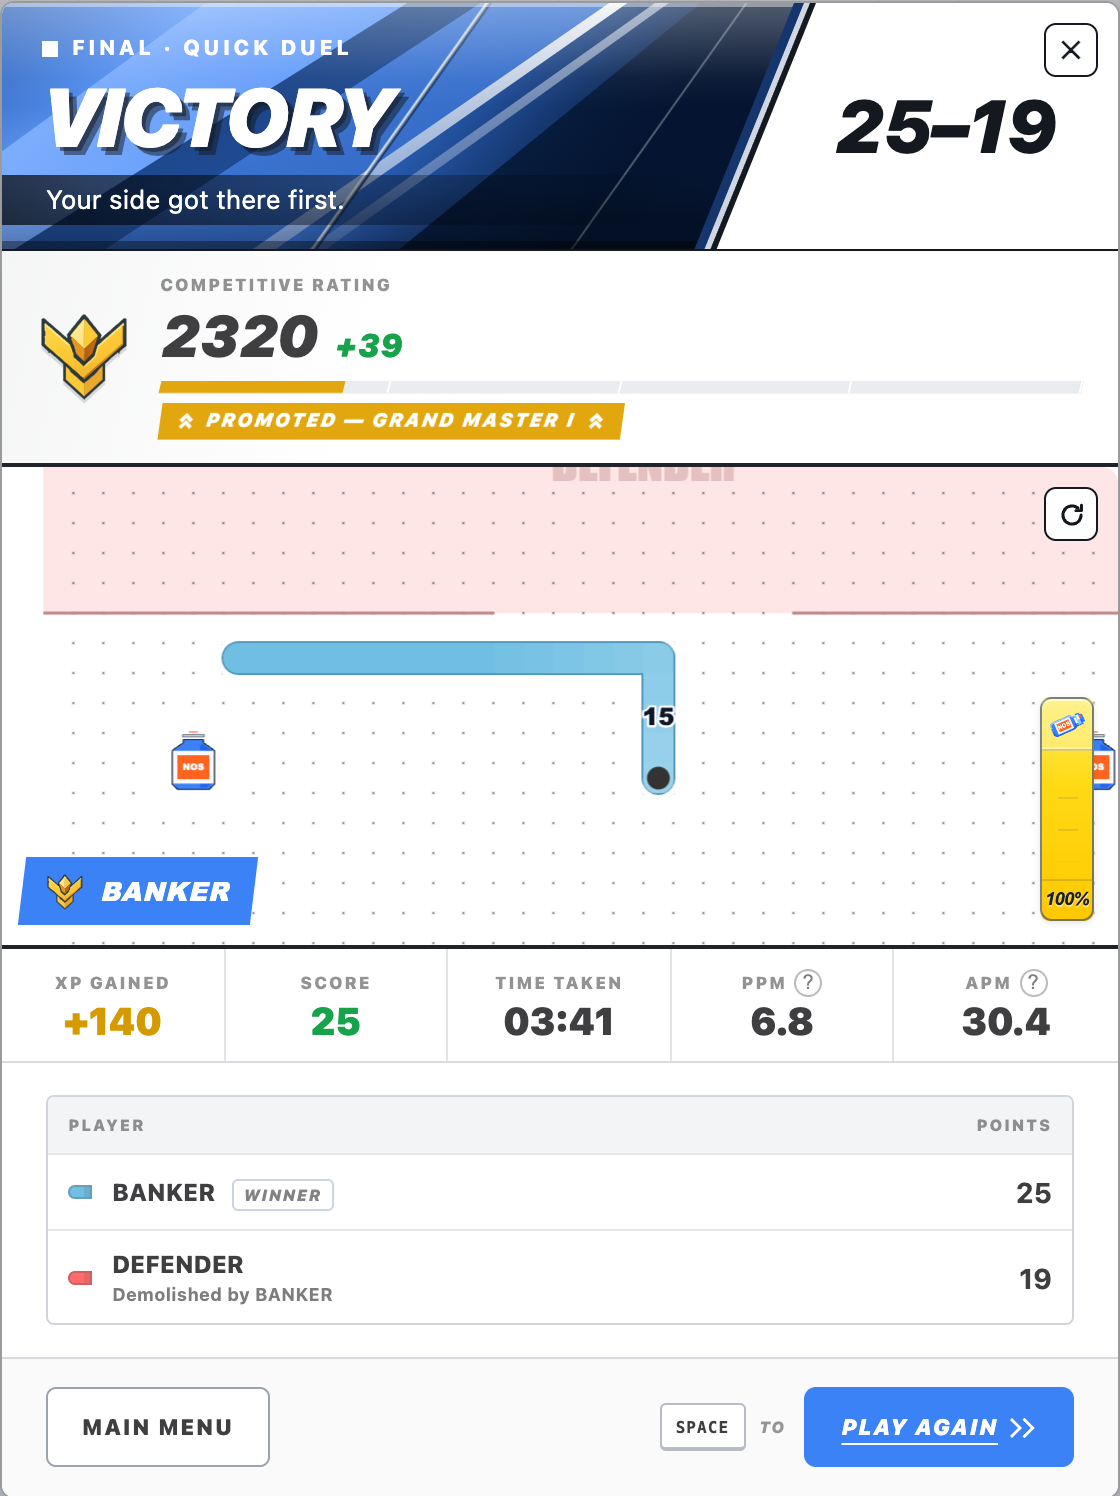
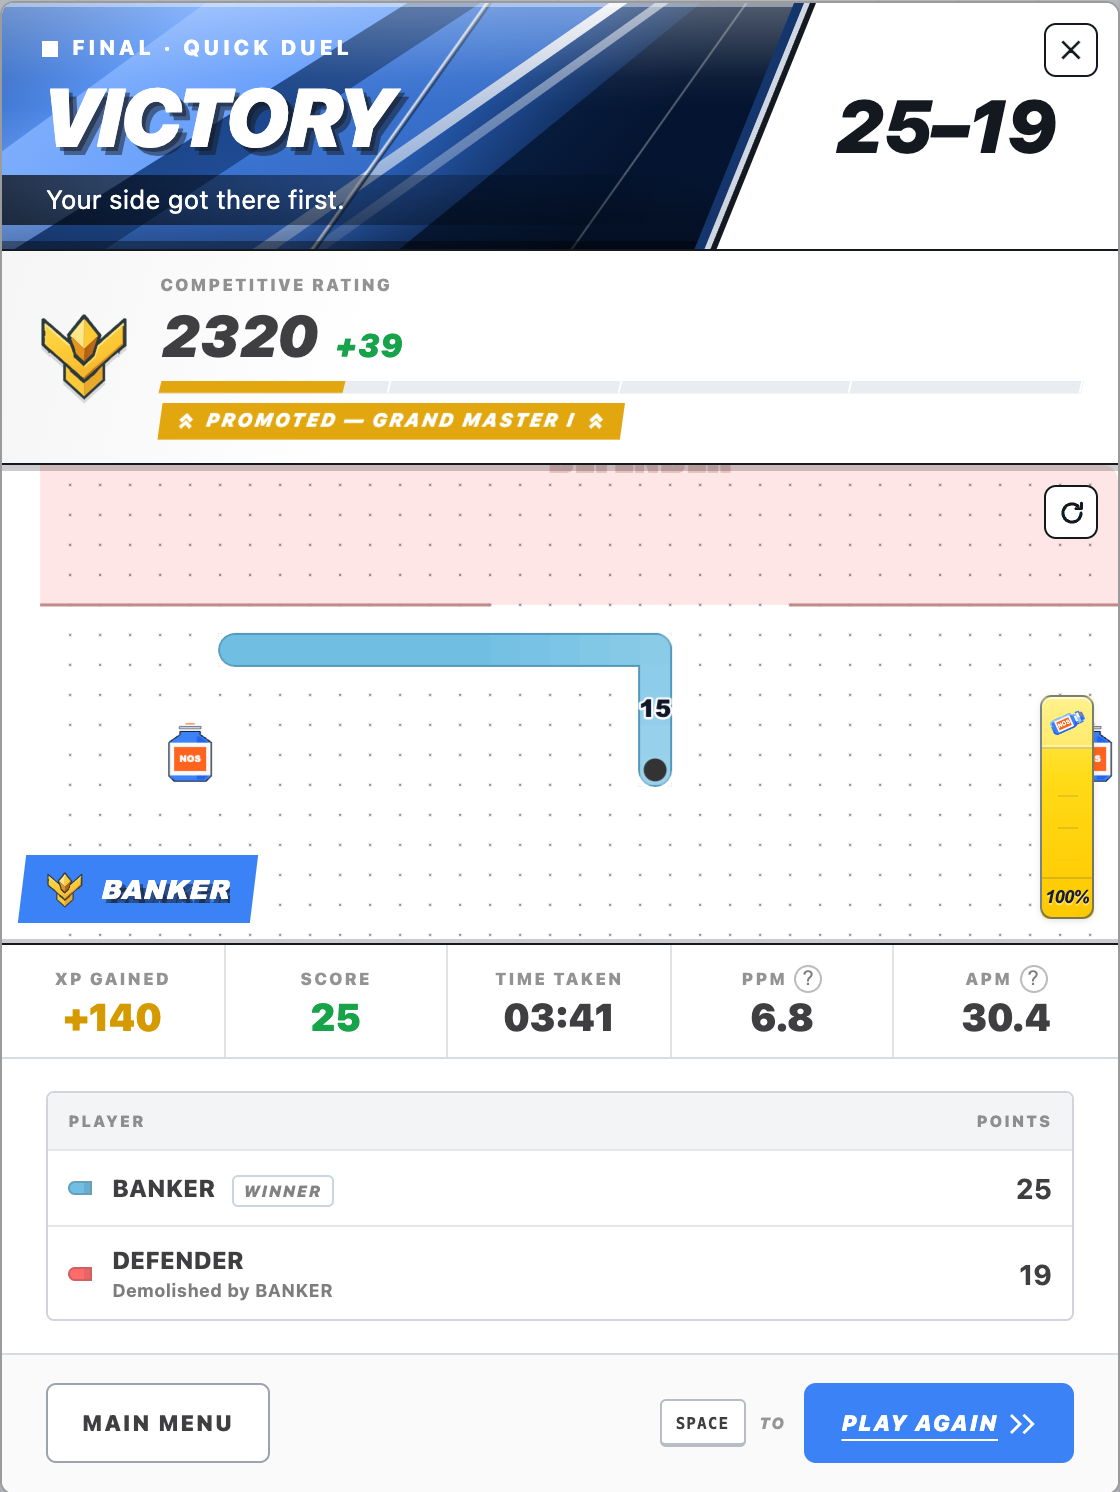
Settle the replay band's typography and framing
The band's edges were two 2px ink rules, which read as a slab bolted onto the
card. It is a recess now: a hairline on each edge in the same ink as the
divider above it, plus a short shadow falling inward from both — 3px from the
top, 2px from the bottom, no blur. The shadow rides in an overlay because an
inset shadow on the band would paint beneath its own arena canvas.

Typography. The title now speaks in the card's headline voice — the same
italic 950 uppercase as VICTORY and the star plate — dark, with VICTORY's
stepped shadow inverted to white so it separates from the pale arena behind
the veil. The star plate wears that same shadow in translucent black, which
is what makes the two plates read as one object at two sizes.

The achievement popover loses its rounded corners and its uppercasing: it is
prose, and the plate it hangs off is already shouting.

The panel's arrival is sharper off the mark and settles longer, so it reads
as a snap rather than a drawer being pulled.

Also: the replay waits on the rating sweep, and that sweep runs on rAF, which
a background tab throttles to a stop — a card opened out of view would come
back with no replay on it. A ceiling now treats the sweep as finished once it
has had far longer than it needs.

diff --git a/client/web/components/PlayOfTheGame.css b/client/web/components/PlayOfTheGame.css
@@ -8,16 +8,29 @@
   position: relative;
   width: 100%;
   overflow: hidden;
-  /* Rules on both edges, and the negative margin swallows the rating panel's
-     own hairline so the two do not stack into a double line. Without this the
-     replay's pale arena ran straight into the rating panel's pale background
-     and the two read as one tall block. */
+  /* The negative margin swallows the rating panel's own hairline so the two
+     rules do not stack into a double line. */
   margin-top: -1px;
-  border-top: 2px solid var(--potg-ink);
-  border-bottom: 2px solid var(--potg-ink);
+  border-top: 1px solid #14181f;
+  border-bottom: 1px solid #14181f;
   background: #eef2f7;
   color: #fff;
   isolation: isolate;
+}
+
+/* Reads as a recess in the card rather than a slab bolted onto it: a hairline
+   on each edge plus a short shadow falling inward from both. It has to ride
+   above the arena — an inset shadow on the band itself paints under its own
+   children, so the canvas would cover it. */
+.potg-band::after {
+  position: absolute;
+  inset: 0;
+  z-index: 7;
+  box-shadow:
+    inset 0 3px 0 rgb(0 0 0 / 20%),
+    inset 0 -2px 0 rgb(0 0 0 / 20%);
+  content: "";
+  pointer-events: none;
 }
 
 .potg-canvas .scenario-canvas__viewport {
@@ -48,8 +61,11 @@
    resting corner while the cover clears the arena. Each duration here mirrors
    a constant in PlayOfTheGame.tsx.
    --------------------------------------------------------------------------- */
+/* Sharp off the mark, long settle — the panel is most of the way in before
+   the eye catches up, which is what makes the arrival feel like a snap rather
+   than a drawer being pulled. */
 .potg-band {
-  animation: potg-band-in 380ms cubic-bezier(0.2, 0.8, 0.2, 1) both;
+  animation: potg-band-in 480ms cubic-bezier(0.1, 0.86, 0.18, 1) both;
 }
 
 @keyframes potg-band-in {
@@ -86,19 +102,25 @@
   transition: none;
 }
 
+/* The card's own headline voice — the same italic 950 uppercase as VICTORY
+   and the star plate — with VICTORY's stepped shadow inverted to white, so
+   dark type still separates from the pale arena behind the veil. */
 .potg-title {
   position: absolute;
   top: 50%;
   left: 50%;
   z-index: 5;
-  color: var(--potg-ink);
+  color: #14181f;
   font-family: "Arial Black", Impact, sans-serif;
-  font-size: clamp(13px, 3.1vw, 24px);
+  font-size: clamp(15px, 3.6vw, 28px);
   font-style: italic;
   font-weight: 950;
-  letter-spacing: 0.06em;
+  letter-spacing: -0.03em;
   line-height: 1;
   text-align: center;
+  text-shadow:
+    2px 2px 0 rgb(255 255 255 / 92%),
+    4px 4px 0 rgb(255 255 255 / 62%);
   text-transform: uppercase;
   white-space: nowrap;
   opacity: 0;
@@ -222,6 +244,11 @@
   letter-spacing: 0.045em;
   line-height: 1;
   pointer-events: auto;
+  /* The same stepped shadow VICTORY wears, so the two headline plates in the
+     card are recognisably the same object at different sizes. */
+  text-shadow:
+    2px 2px 0 rgb(20 24 31 / 50%),
+    4px 4px 0 rgb(20 24 31 / 50%);
   text-transform: uppercase;
   white-space: nowrap;
   transform: skewX(-7deg);
@@ -249,18 +276,18 @@
   bottom: calc(100% + 8px);
   left: 0;
   padding: 6px 9px;
-  border-radius: 5px;
   background: rgb(20 24 31 / 82%);
   color: #fff;
   font-family: Arial, Helvetica, sans-serif;
-  font-size: 9px;
+  font-size: 11px;
   font-style: normal;
-  font-weight: 800;
-  letter-spacing: 0.04em;
-  line-height: 1;
+  font-weight: 700;
+  letter-spacing: 0;
+  line-height: 1.2;
   opacity: 0;
   pointer-events: none;
-  text-transform: uppercase;
+  /* The plate around it is uppercase; this is prose, so it opts out. */
+  text-transform: none;
   transform: skewX(7deg) translateY(3px);
   transition: opacity 140ms ease, transform 140ms ease;
   white-space: nowrap;

diff --git a/client/web/components/GameOverCard.tsx b/client/web/components/GameOverCard.tsx
@@ -13,6 +13,13 @@ import GameOverJewel from './GameOverJewel';
 import PlayOfTheGame from './PlayOfTheGame';
 import RatingReveal from './RatingReveal';
 
+/**
+ * Longest the replay will wait on the rating sweep before mounting anyway.
+ * Comfortably past a normal sweep; it only ever fires when the animation has
+ * stalled (a throttled background tab being the usual reason).
+ */
+const RATING_SETTLE_CEILING_MS = 6000;
+
 const FOCUSABLE_SELECTOR = [
   'a[href]',
   'button:not([disabled])',
@@ -111,6 +118,16 @@ const GameOverCard: React.FC<GameOverCardProps> = ({
       autoplayGameIdRef.current = null;
     }
   }, [open]);
+
+  // The replay waits for the rating sweep, and the sweep runs on rAF — which a
+  // background tab throttles to a stop. Without a ceiling, a card opened out of
+  // view would come back with no replay on it at all, so treat the sweep as
+  // finished once it has had more than enough time.
+  useEffect(() => {
+    if (!open || ratingSettled) return undefined;
+    const timer = window.setTimeout(() => setRatingSettled(true), RATING_SETTLE_CEILING_MS);
+    return () => window.clearTimeout(timer);
+  }, [open, ratingSettled]);
 
   const handleRatingSettled = useCallback(() => setRatingSettled(true), []);
   const handleHighlightAutoplayStarted = useCallback((playedGameId: number) => {
